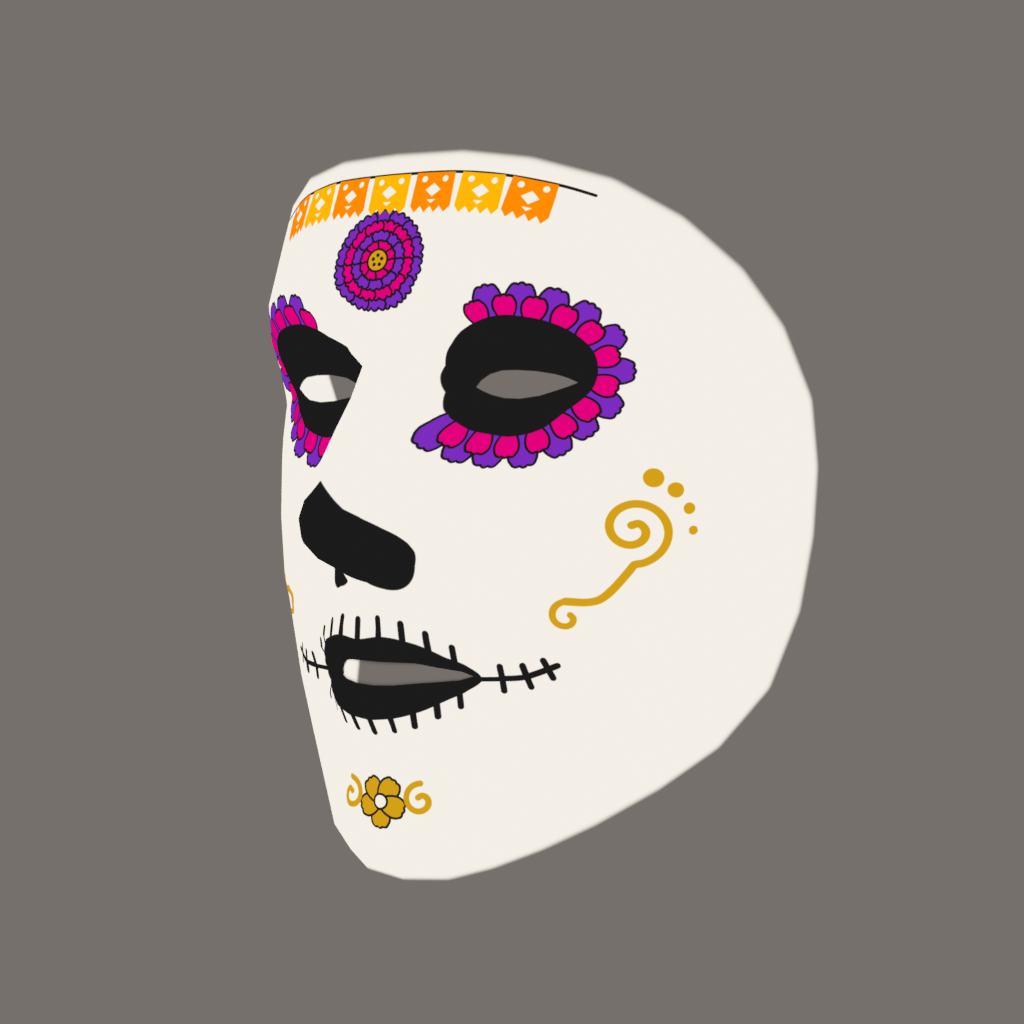
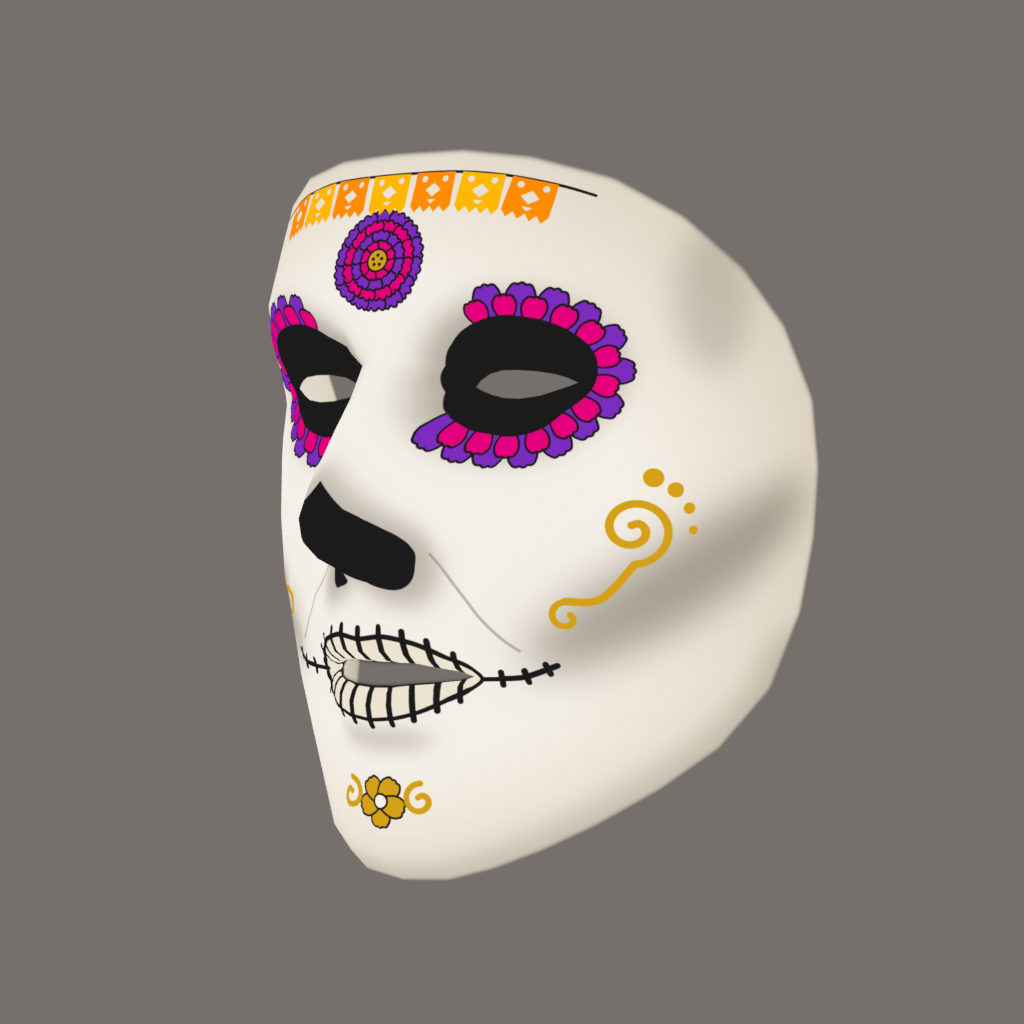
Diseño: sombreado de cráneo y dientes para que se lea como calavera
- Capa nueva "huesos": base con degradado hacia los bordes, sombra de las
  órbitas, hundimiento bajo los pómulos, sienes, cavidad nasal, mandíbula,
  mentón y líneas del maxilar. Todo anclado a los mismos landmarks.
- Boca: dientes color hueso con contorno, línea de mordida y separaciones
  (BONES["teeth"] = False regresa a los labios oscuros).
- Texturas y vistas previas regeneradas (1.3 MB por textura).

diff --git a/README.md b/README.md
@@ -37,7 +37,7 @@ Plantilla UV → guía de rasgos → SVG anclado a landmarks → rasterizado →
 
 Los contornos de los rasgos salen de los conjuntos oficiales de conexiones de MediaPipe
 (`FaceLandmarksConnections`), no de índices escritos a mano. El SVG está organizado en capas
-con nombre (`base`, `frente`, `mejillas`, `menton`, `nariz`, `boca`, `ojos`,
+con nombre (`base`, `huesos`, `frente`, `mejillas`, `menton`, `nariz`, `boca`, `ojos`,
 `transparencias`) para retocarlo en Inkscape, Figma o Illustrator.
 
 ![Guía UV](assets/face/uv_guide.png)
